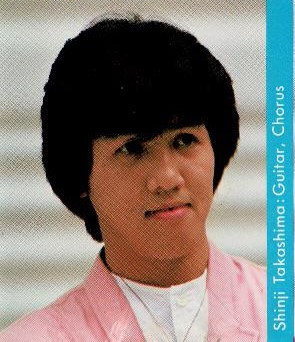
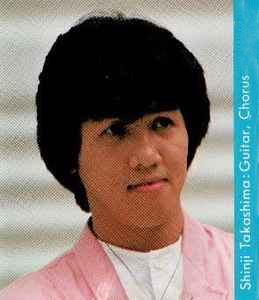
Complete main section styling
Completed main section styling, added a background picture for it and
corrected small imperfections in Shinji Takashima's picture, plus some
minor changes in the HTML file for alignment.

diff --git a/index.html b/index.html
@@ -28,12 +28,24 @@
 
 
     <div class="main">
-        <h3>Some members from the project:</h3>
+        <h3>Here are some members from the project:</h3>
         <div class="members">
-            <a href="https://en.wikipedia.org/wiki/Kiyotaka_Sugiyama" target="_blank"><img class="member" src="./images/Sugiyama_Kiyotaka.jpeg" alt="Kiyotaka Sugiyama"></a>
-            <a href="https://en.wikipedia.org/wiki/Carlos_Toshiki" target="_blank"><img class="member" src="./images/Carlos_Toshiki.webp" alt="Carlos Toshiki"></a>
-            <a href="https://en.wikipedia.org/wiki/Shinji_Takashima" target="_blank"><img class="member" src="./images/Shinji_Takashima.jpg" alt="Shinji Takashima"></a>
-            <a href="https://en.wikipedia.org/wiki/Toshitsugu_Nishihara" target="_blank"><img class="member" src="./images/Toshitsugu_Nishihara.jpg" alt="Toshitsugu Nishihara"></a>
+            <div class="pic-sub">
+                <a href="https://en.wikipedia.org/wiki/Kiyotaka_Sugiyama" target="_blank"><img class="member" src="./images/Sugiyama_Kiyotaka.jpeg" alt="Kiyotaka Sugiyama"></a>
+                <figcaption class="subtext">Kiyotaka Sugiyama, vocalist from the start of the project until 1985.</figcaption>
+            </div>
+            <div class="pic-sub">
+                <a href="https://en.wikipedia.org/wiki/Carlos_Toshiki" target="_blank"><img class="member" src="./images/Carlos_Toshiki.webp" alt="Carlos Toshiki"></a>
+                <figcaption class="subtext">Carlos Toshiki, vocalist for the second and third iteration of the project; 1985 to 1991.</figcaption>
+            </div>
+            <div class="pic-sub">
+                <a href="https://en.wikipedia.org/wiki/Shinji_Takashima" target="_blank"><img class="member" src="./images/Shinji_Takashima.jpg" alt="Shinji Takashima"></a>
+                <figcaption class="subtext">Shinji Takashima, guitarist from the start of the project until 1991.</figcaption>
+            </div>
+            <div class="pic-sub">
+                <a href="https://en.wikipedia.org/wiki/Toshitsugu_Nishihara" target="_blank"><img class="member" src="./images/Toshitsugu_Nishihara.jpg" alt="Toshitsugu Nishihara"></a>
+                <figcaption class="subtext">Toshitsugu Nishihara, keyboardist from the start of the project until 1991.</figcaption>
+            </div>
         </div>
     </div>
 

diff --git a/style.css b/style.css
@@ -75,3 +75,42 @@ a:active{
 .des-pic button{
     margin-top: 25px;
 }
+
+.member{
+    height: 200px;
+    width: 200px;
+    border: 5px solid #1da1f2;
+    border-radius: 15px;
+}
+
+.main{
+    display: flex;
+    flex-direction: column;
+    align-items: center;
+    padding-top: 20px;
+    background-image: url(./images/First_Finale_cover.jpg);
+    background-repeat: no-repeat;
+    background-size: 100%;
+    height: 650px;
+    justify-content: center;
+}
+
+.members{
+    display: flex;
+    justify-content: center;
+    gap: 100px;
+    flex: 1;
+    align-items: flex-start;
+}
+
+.subtext{
+    width: 210px;
+    text-align: center;
+    color: #ffffff;
+}
+
+.main h3{
+    color: #ffffff;
+    font-size: 25px;
+    height: 150px;
+}
